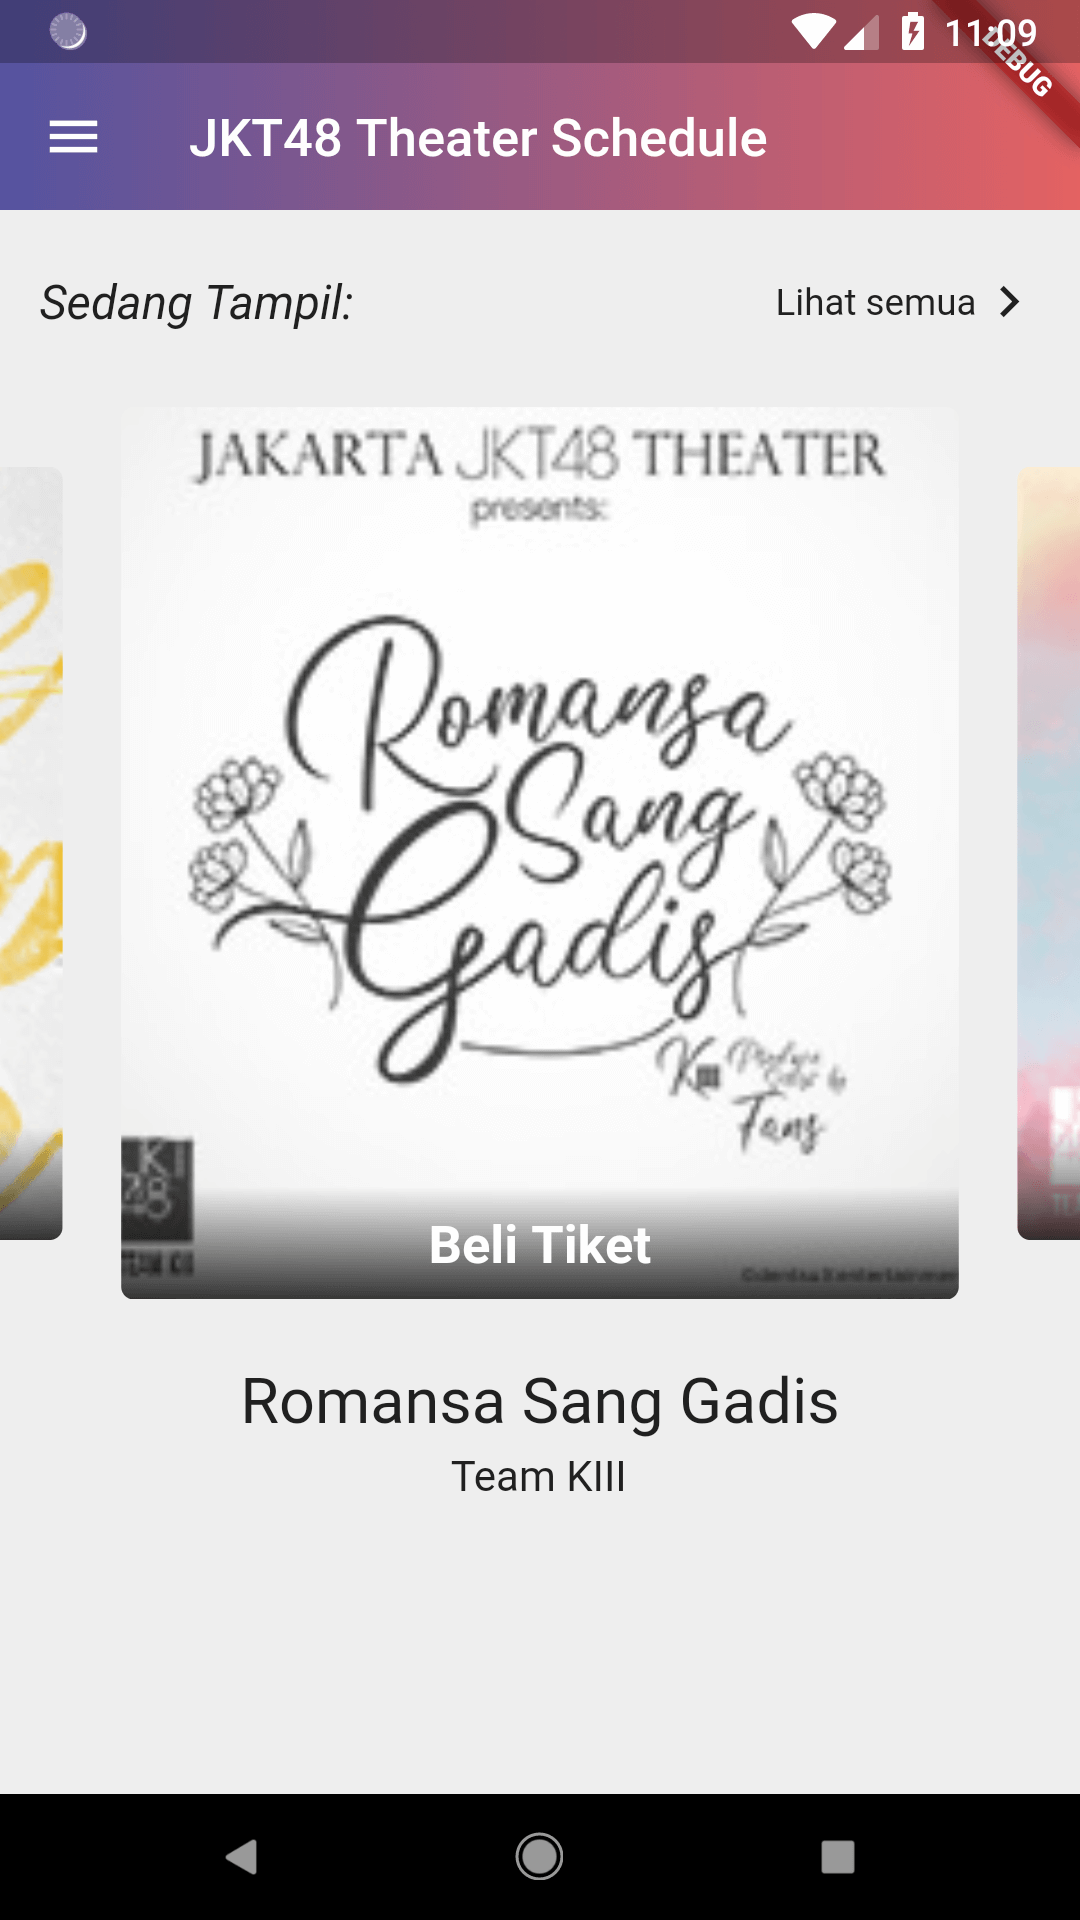
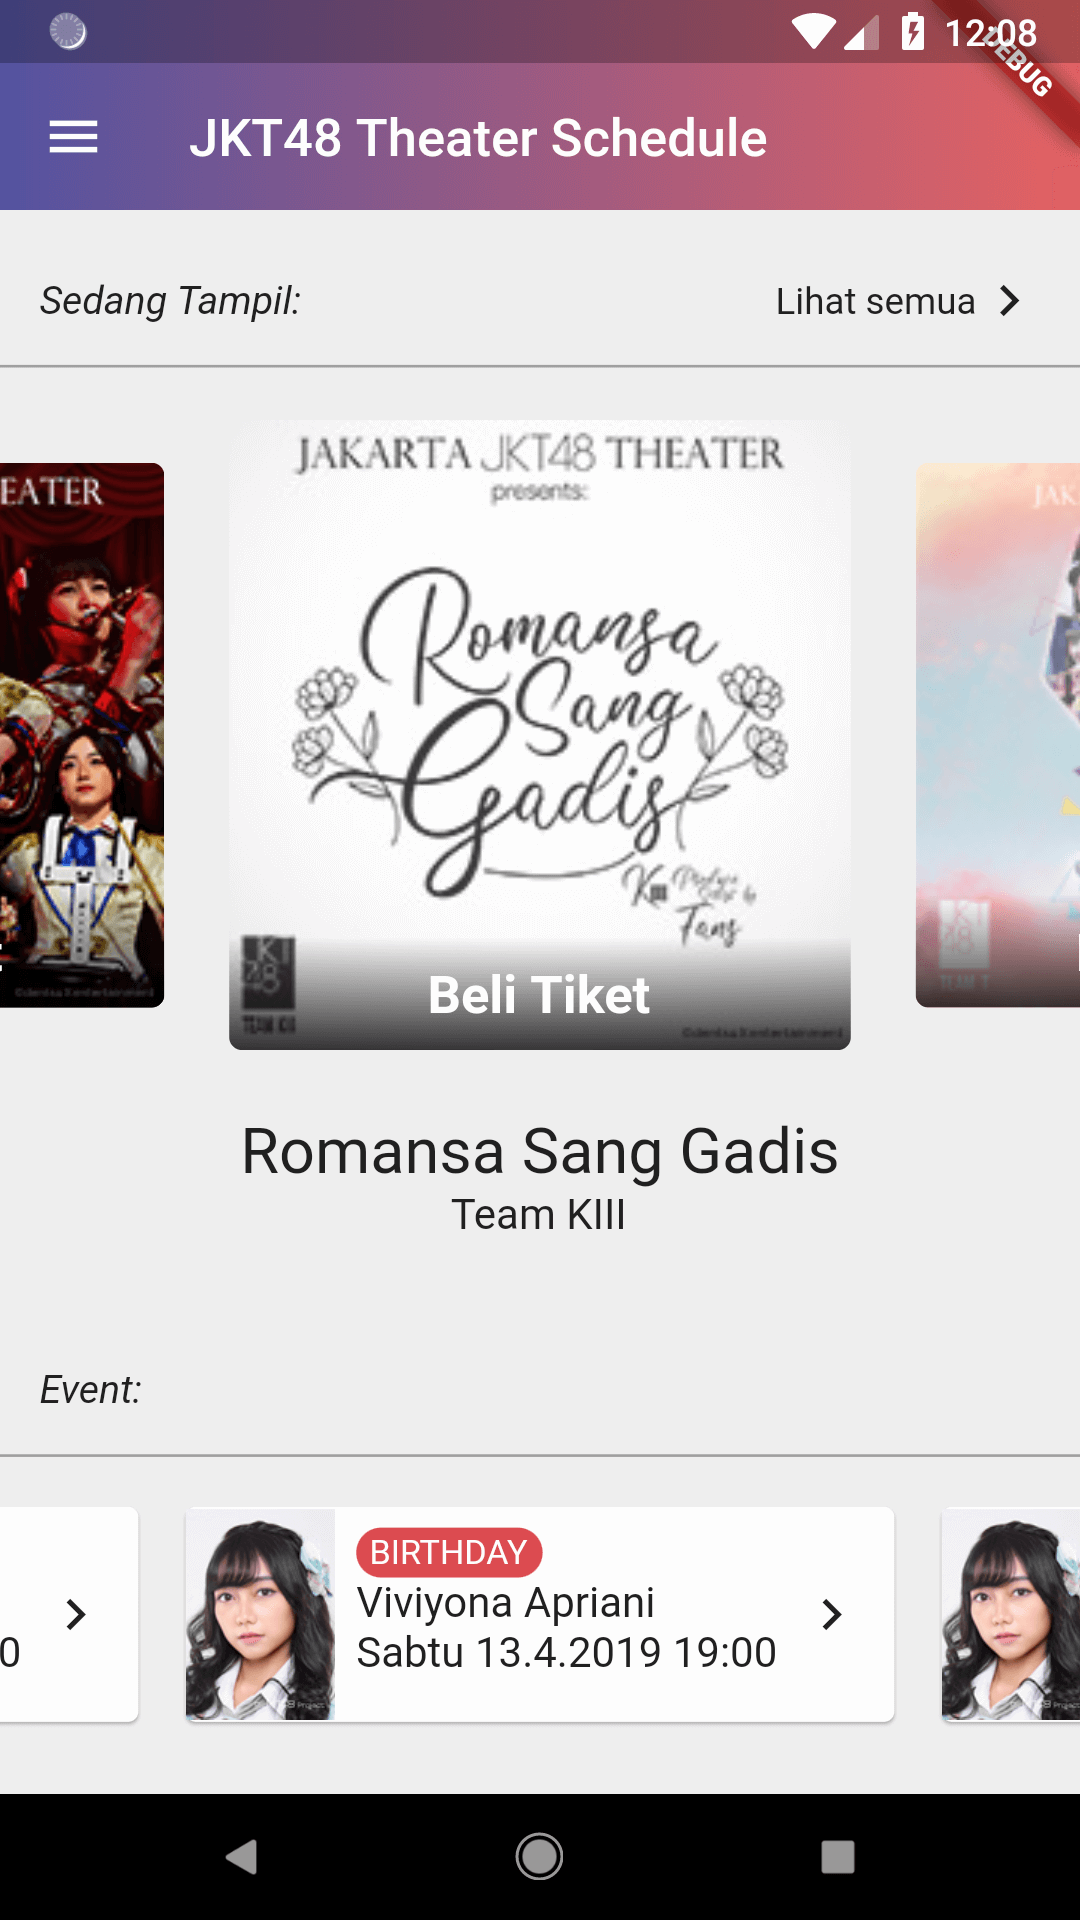
update readme & ss

diff --git a/README.md b/README.md
@@ -13,6 +13,11 @@ https://sites.google.com/view/privacy-policy-jkt48-schedule/
 ```
 
 ## Whats New
+### V2.0.1 build 3
+- Event Handle Feature Release
+- Promotion Card Feature
+- API update
+
 ### V2.0.0 build 2
 - New Carousel on Homescreen
 - Member Pages
